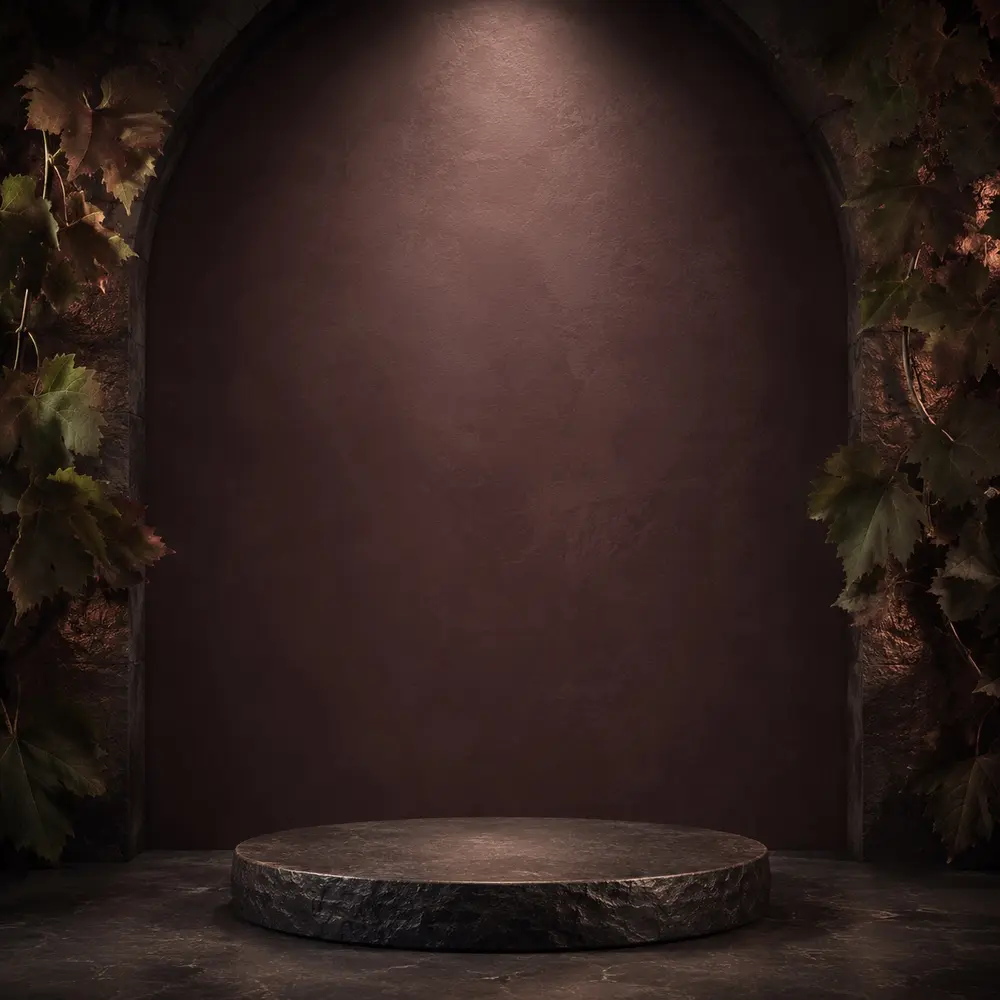
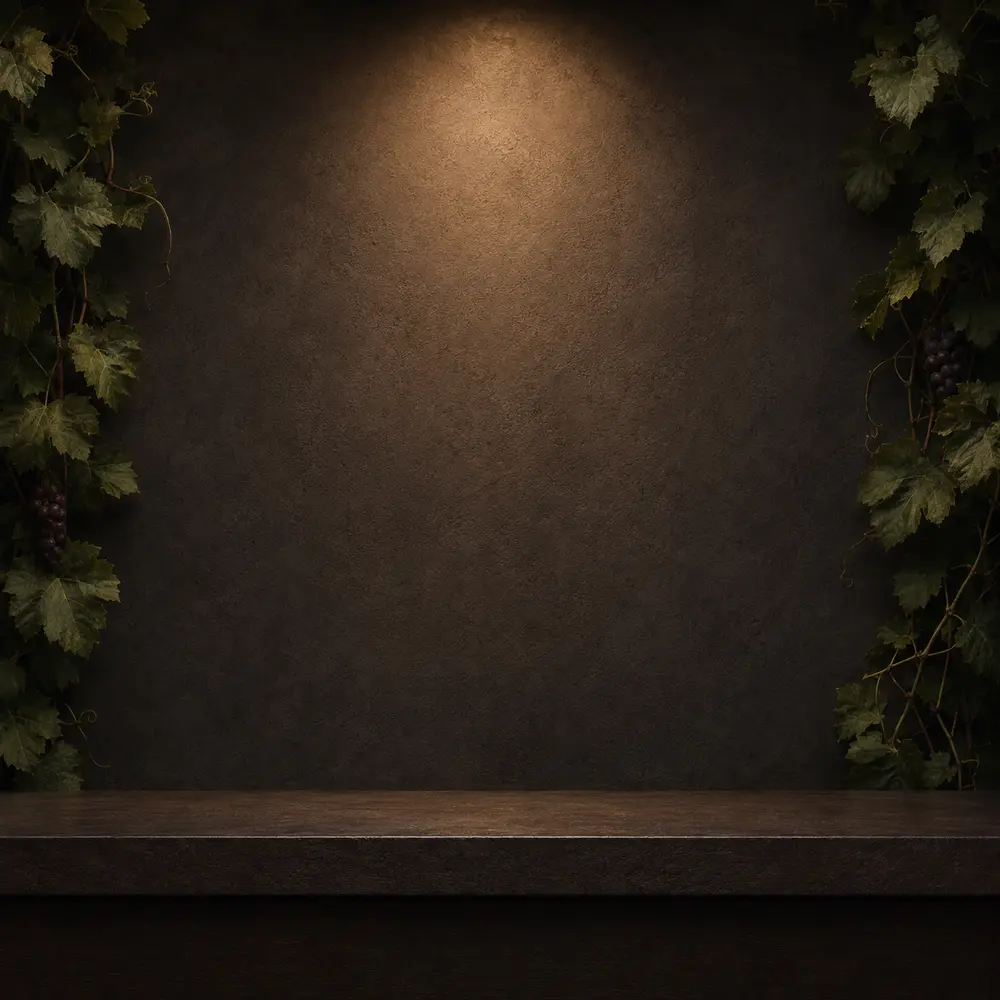
Use a flat shelf for catalog bottles

diff --git a/app/page.tsx b/app/page.tsx
@@ -90,8 +90,9 @@ function productForegroundImage(product: Product) {
 function productForegroundStyle(product: Product) {
   return {
     backgroundImage: `url('${productForegroundImage(product)}')`,
-    backgroundPosition: "center bottom 15%",
-    backgroundSize: "auto 70%",
+    backgroundPosition: "center bottom 20%",
+    backgroundSize: "auto 65%",
+    filter: "drop-shadow(0 5px 4px rgba(0, 0, 0, 0.32))",
   };
 }
 
